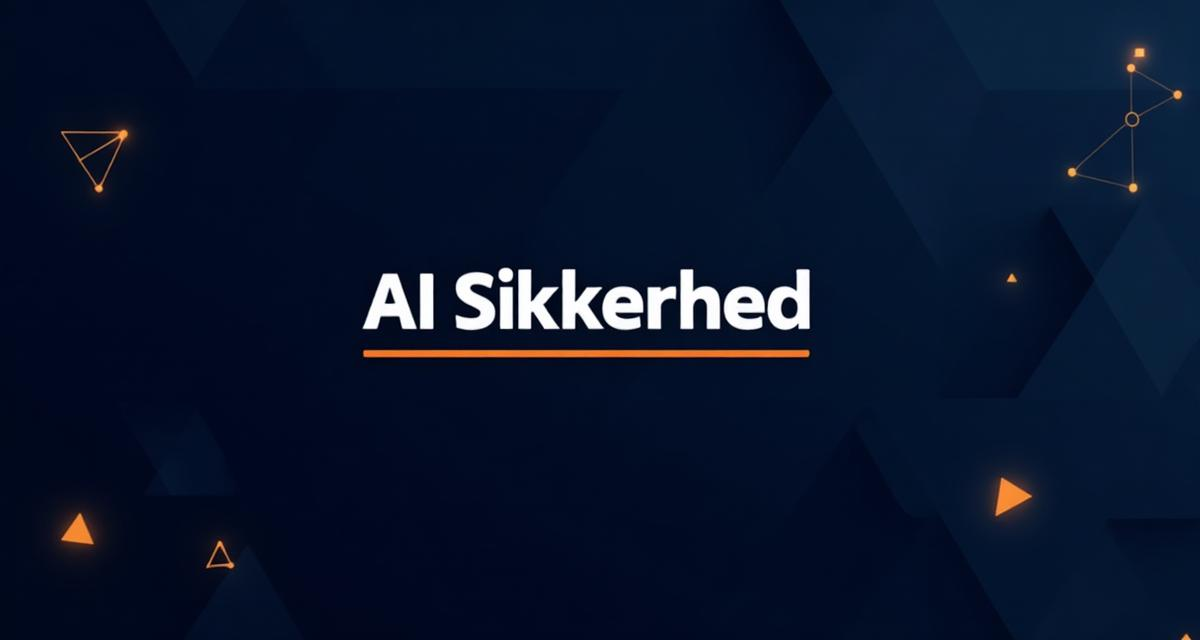
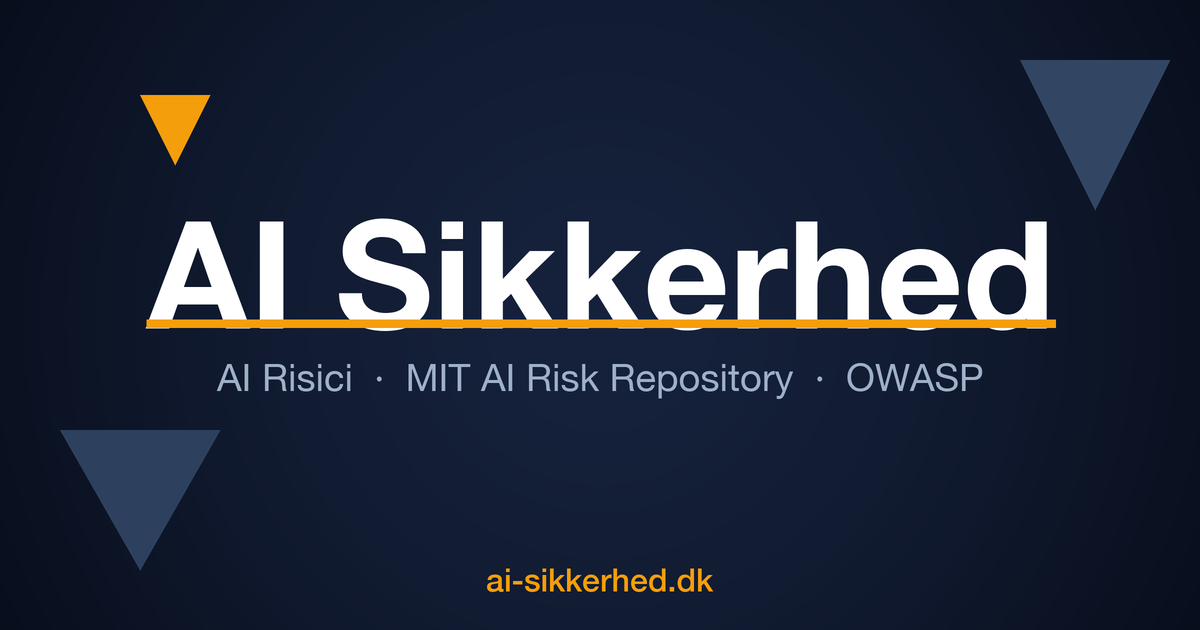
Add CTAs, fix hero copy, modernize SEO + og-image
- Header: Calendly "Book sparring" button
- Subcategory: per-risk sparring CTA card
- Newsletter signup (MailerLite) + Calendly CTA strip above footer
- Hero copy: "AI-risiko Overblik" → "AI Risici Overblik"
- Footer: credit to ai-raadgivning.dk
- Removed unused Shield icon import

index.html: proper Danish SEO meta tags, canonical, OG image,
Twitter card, JSON-LD WebSite schema, apple-touch-icon link.

og-image: clean minimal design matching the compliance pattern,
orange brand accent, "AI Sikkerhed" wordmark, MIT/OWASP subtitle.

apple-touch-icon.png generated from existing favicon.

diff --git a/src/pages/Index.tsx b/src/pages/Index.tsx
@@ -1,6 +1,6 @@
-import { useState } from "react";
+import { useState, type FormEvent } from "react";
 import logo from "@/assets/logo.png";
-import { Shield, ExternalLink, ChevronRight, ChevronDown, ArrowLeft, Search } from "lucide-react";
+import { ExternalLink, ChevronRight, ChevronDown, ArrowLeft, Search } from "lucide-react";
 import {
   pillars,
   riskCategories,
@@ -13,6 +13,10 @@ import {
 } from "@/data/riskData";
 
 type View = "dashboard" | "pillar" | "category" | "subcategory";
+
+const CALENDLY_URL = "https://calendly.com/ai-raadgivning_jacob/30min?month=2026-06";
+// MailerLite form — shared with compliance temporarily; swap to a sikkerhed-specific form once created
+const MAILERLITE_ACTION = "https://assets.mailerlite.com/jsonp/1571946/forms/189012812467536974/subscribe";
 
 const Index = () => {
   const [view, setView] = useState<View>("dashboard");
@@ -92,6 +96,14 @@ const Index = () => {
               >
                 OWASP GenAI <ExternalLink className="h-3 w-3" />
               </a>
+              <a
+                href={CALENDLY_URL}
+                target="_blank"
+                rel="noopener noreferrer"
+                className="flex items-center gap-1.5 rounded-md bg-primary px-3 py-1.5 text-xs font-medium text-primary-foreground transition-opacity hover:opacity-90"
+              >
+                Book sparring
+              </a>
             </div>
           </div>
         </div>
@@ -153,6 +165,9 @@ const Index = () => {
         )}
       </main>
 
+      {/* Newsletter + CTA strip */}
+      <NewsletterCTA />
+
       {/* Footer */}
       <footer className="border-t border-border bg-card/50 py-6">
         <div className="container mx-auto px-6 text-center text-xs text-muted-foreground">
@@ -166,6 +181,10 @@ const Index = () => {
               OWASP GenAI Security Project
             </a>
             . For alle detaljer, besøg de originale repositories.
+          </p>
+          <p className="mt-3">
+            En oversigt fra{" "}
+            <a href="https://ai-raadgivning.dk" target="_blank" rel="noopener noreferrer" className="text-primary hover:underline">AI Rådgivning</a>.
           </p>
         </div>
       </footer>
@@ -186,7 +205,7 @@ function DashboardView({ onNavigate }: { onNavigate: (v: View, p?: RiskPillar) =
       {/* Hero */}
       <div className="mb-10">
         <h2 className="font-display text-3xl font-bold text-foreground">
-          AI-risiko <span className="text-primary text-glow">Overblik</span>
+          AI Risici <span className="text-primary text-glow">Overblik</span>
         </h2>
         <p className="mt-2 max-w-2xl text-sm text-muted-foreground">
           Omfattende risikovurdering på tværs af Strategi, Mennesker og Udvikling — baseret på MIT AI Risk Repository (1700+ risici, 7 domæner), OWASP Top 10 for LLM'er 2025, OWASP Top 10 for Agentiske Applikationer 2026 og OWASP Agentic Security Initiative-guides.
@@ -530,7 +549,104 @@ function SubcategoryView({
           ))}
         </div>
       </div>
+
+      {/* Sparring CTA */}
+      <div className="mt-8 rounded-xl border border-primary/30 bg-primary/5 p-6 text-center">
+        <h3 className="font-display text-lg font-semibold text-foreground">Brug for sparring på denne risiko?</h3>
+        <p className="mt-2 text-sm text-muted-foreground">
+          Book et 30-min sparringsmøde med AI Rådgivning — vi hjælper danske organisationer med at vurdere, mitigere og styre AI-risici i praksis.
+        </p>
+        <a
+          href={CALENDLY_URL}
+          target="_blank"
+          rel="noopener noreferrer"
+          className="mt-4 inline-block rounded-md bg-primary px-5 py-2 text-sm font-medium text-primary-foreground transition-opacity hover:opacity-90"
+        >
+          Book 30-min sparring
+        </a>
+      </div>
     </div>
+  );
+}
+
+// ── Newsletter + main CTA strip ──
+function NewsletterCTA() {
+  const [status, setStatus] = useState<"idle" | "loading" | "success" | "error">("idle");
+  const [email, setEmail] = useState("");
+
+  const handleSubmit = async (e: FormEvent<HTMLFormElement>) => {
+    e.preventDefault();
+    if (!email) return;
+    setStatus("loading");
+    try {
+      const formData = new FormData();
+      formData.append("fields[email]", email);
+      formData.append("ml-submit", "1");
+      formData.append("anticsrf", "true");
+      await fetch(MAILERLITE_ACTION, {
+        method: "POST",
+        body: formData,
+        mode: "no-cors",
+      });
+      setStatus("success");
+      setEmail("");
+    } catch {
+      setStatus("error");
+    }
+  };
+
+  return (
+    <section className="border-t border-border bg-card/30 py-12">
+      <div className="container mx-auto grid gap-8 px-6 md:grid-cols-2">
+        <div className="rounded-xl border border-border bg-card p-6">
+          <h3 className="font-display text-lg font-semibold text-foreground">📬 Nyhedsbrev: AI Sikkerhed i praksis</h3>
+          <p className="mt-2 text-sm text-muted-foreground">
+            Månedlig opdatering om AI-risici, nye OWASP-/MIT-frameworks, threat intelligence og praktiske mitigeringer for danske virksomheder.
+          </p>
+          {status === "success" ? (
+            <div className="mt-4 rounded-md border border-success/30 bg-success/10 p-4 text-sm text-success">
+              ✓ Tak! Du er nu tilmeldt — tjek din indbakke for bekræftelse.
+            </div>
+          ) : (
+            <form onSubmit={handleSubmit} className="mt-4 flex flex-col gap-2 sm:flex-row">
+              <input
+                type="email"
+                value={email}
+                onChange={(e) => setEmail(e.target.value)}
+                required
+                placeholder="[email redacted]"
+                disabled={status === "loading"}
+                className="flex-1 rounded-md border border-border bg-background px-3 py-2 text-sm text-foreground placeholder:text-muted-foreground focus:border-primary focus:outline-none focus:ring-1 focus:ring-primary disabled:opacity-60"
+              />
+              <button
+                type="submit"
+                disabled={status === "loading"}
+                className="rounded-md bg-primary px-4 py-2 text-sm font-medium text-primary-foreground transition-opacity hover:opacity-90 disabled:opacity-60"
+              >
+                {status === "loading" ? "Tilmelder…" : "Tilmeld"}
+              </button>
+            </form>
+          )}
+          {status === "error" && (
+            <p className="mt-2 text-xs text-danger">Noget gik galt. Prøv igen om lidt.</p>
+          )}
+        </div>
+        <div className="rounded-xl border border-primary/30 bg-primary/5 p-6">
+          <h3 className="font-display text-lg font-semibold text-foreground">🗓️ Book 30-min sparring</h3>
+          <p className="mt-2 text-sm text-muted-foreground">
+            Konkret sparring om jeres AI-risikobillede — kortlægning, mitigeringer, governance, leverandørsikkerhed eller noget helt andet.
+          </p>
+          <a
+            href={CALENDLY_URL}
+            target="_blank"
+            rel="noopener noreferrer"
+            className="mt-4 inline-block rounded-md bg-primary px-5 py-2 text-sm font-medium text-primary-foreground transition-opacity hover:opacity-90"
+          >
+            Find en tid hos Jacob
+          </a>
+        </div>
+      </div>
+    </section>
   );
 }
 

diff --git a/index.html b/index.html
@@ -3,25 +3,44 @@
   <head>
     <meta charset="UTF-8" />
     <meta name="viewport" content="width=device-width, initial-scale=1.0" />
-    <title>AI Sikkerhed – AI Risikostyring &amp; Sikkerhedsplatform</title>
-    <meta name="description" content="Overblik over AI-sikkerhedsrisici, mitigeringsstrategier og governance baseret på OWASP, MIT og andre førende frameworks.">
+    <title>AI Sikkerhed – Praktisk overblik over AI-risici til danske virksomheder | MIT &amp; OWASP</title>
+    <meta name="description" content="Praktisk overblik over AI-risici for danske organisationer. Strategi, mennesker og udvikling — baseret på MIT AI Risk Repository (1700+ risici) og OWASP Top 10 for LLM'er &amp; agentiske applikationer. Bliv klar til at vurdere og mitigere AI-trusler." />
     <meta name="author" content="AI Rådgivning" />
-    <link rel="icon" type="image/png" href="/favicon.png">
+    <meta name="keywords" content="AI Sikkerhed, AI Risici, OWASP LLM, OWASP Agentic, MIT AI Risk Repository, prompt injection, AI governance, AI threat modelling, AI red team, Danmark" />
+    <link rel="canonical" href="https://ai-sikkerhed.dk/" />
+    <link rel="icon" type="image/png" sizes="32x32" href="/favicon.png" />
+    <link rel="shortcut icon" href="/favicon.ico" />
+    <link rel="apple-touch-icon" href="/apple-touch-icon.png" />
 
     <meta property="og:type" content="website" />
-    
-    
-    <meta property="og:image" content="https://mindful-ai-advisor.lovable.app/og-image.png">
+    <meta property="og:url" content="https://ai-sikkerhed.dk/" />
+    <meta property="og:title" content="AI Sikkerhed – Praktisk overblik over AI-risici til danske virksomheder" />
+    <meta property="og:description" content="Strategi, mennesker, udvikling — risici og mitigeringer baseret på MIT AI Risk Repository og OWASP frameworks." />
+    <meta property="og:image" content="https://ai-sikkerhed.dk/og-image.png" />
+    <meta property="og:locale" content="da_DK" />
+    <meta property="og:site_name" content="AI Sikkerhed" />
 
     <meta name="twitter:card" content="summary_large_image" />
-    
-    
-    <meta name="twitter:image" content="https://mindful-ai-advisor.lovable.app/og-image.png">
-  <meta property="og:title" content="AI Sikkerhed – AI Risikostyring &amp; Sikkerhedsplatform">
-  <meta name="twitter:title" content="AI Sikkerhed – AI Risikostyring &amp; Sikkerhedsplatform">
-  <meta property="og:description" content="Overblik over AI-sikkerhedsrisici, mitigeringsstrategier og governance baseret på OWASP, MIT og andre førende frameworks.">
-  <meta name="twitter:description" content="Overblik over AI-sikkerhedsrisici, mitigeringsstrategier og governance baseret på OWASP, MIT og andre førende frameworks.">
-</head>
+    <meta name="twitter:title" content="AI Sikkerhed – Praktisk overblik over AI-risici til danske virksomheder" />
+    <meta name="twitter:description" content="Strategi, mennesker, udvikling — risici og mitigeringer baseret på MIT &amp; OWASP." />
+    <meta name="twitter:image" content="https://ai-sikkerhed.dk/og-image.png" />
+
+    <script type="application/ld+json">
+      {
+        "@context": "https://schema.org",
+        "@type": "WebSite",
+        "name": "AI Sikkerhed",
+        "url": "https://ai-sikkerhed.dk/",
+        "description": "Praktisk overblik over AI-risici for danske organisationer.",
+        "inLanguage": "da-DK",
+        "publisher": {
+          "@type": "Organization",
+          "name": "AI Rådgivning",
+          "url": "https://ai-raadgivning.dk/"
+        }
+      }
+    </script>
+  </head>
 
   <body>
     <div id="root"></div>